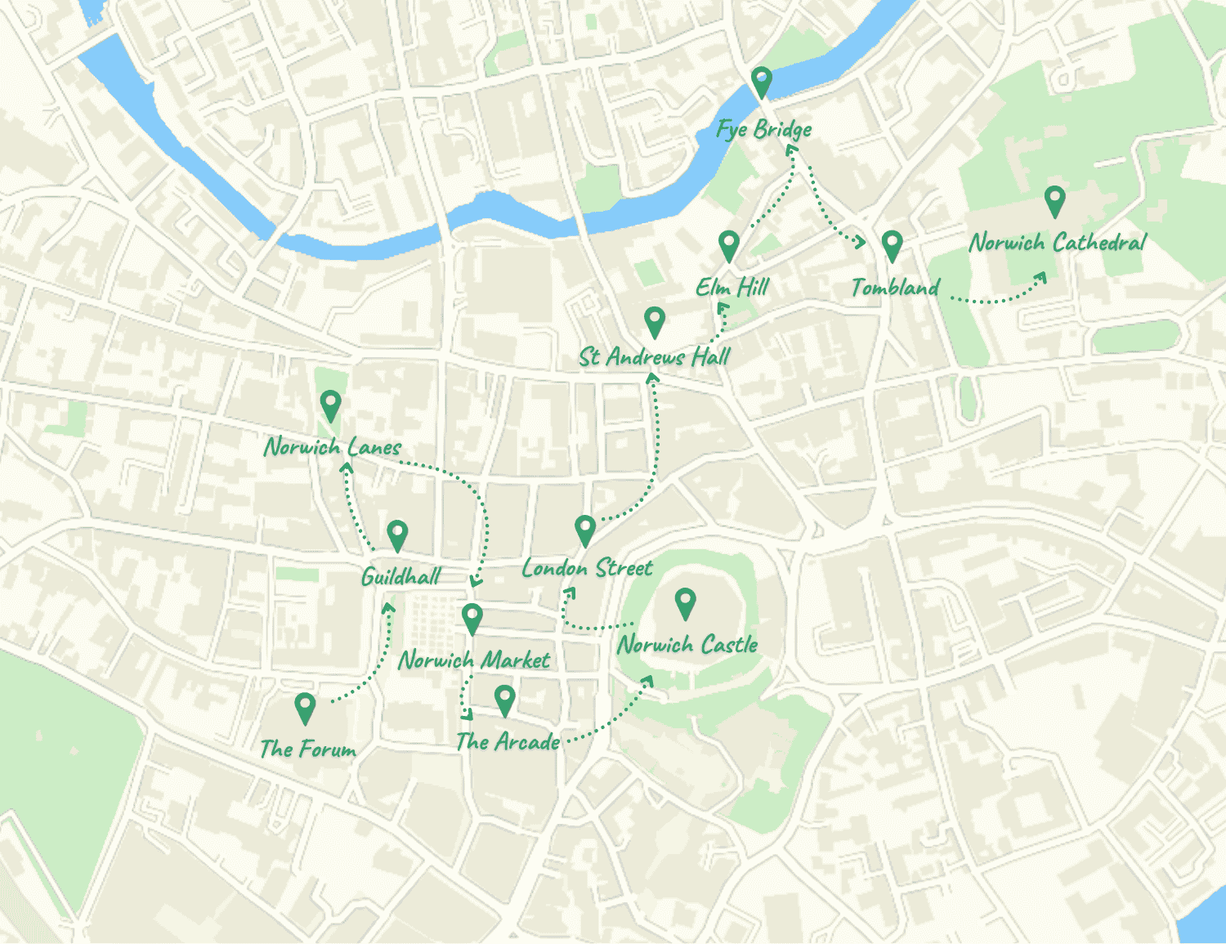
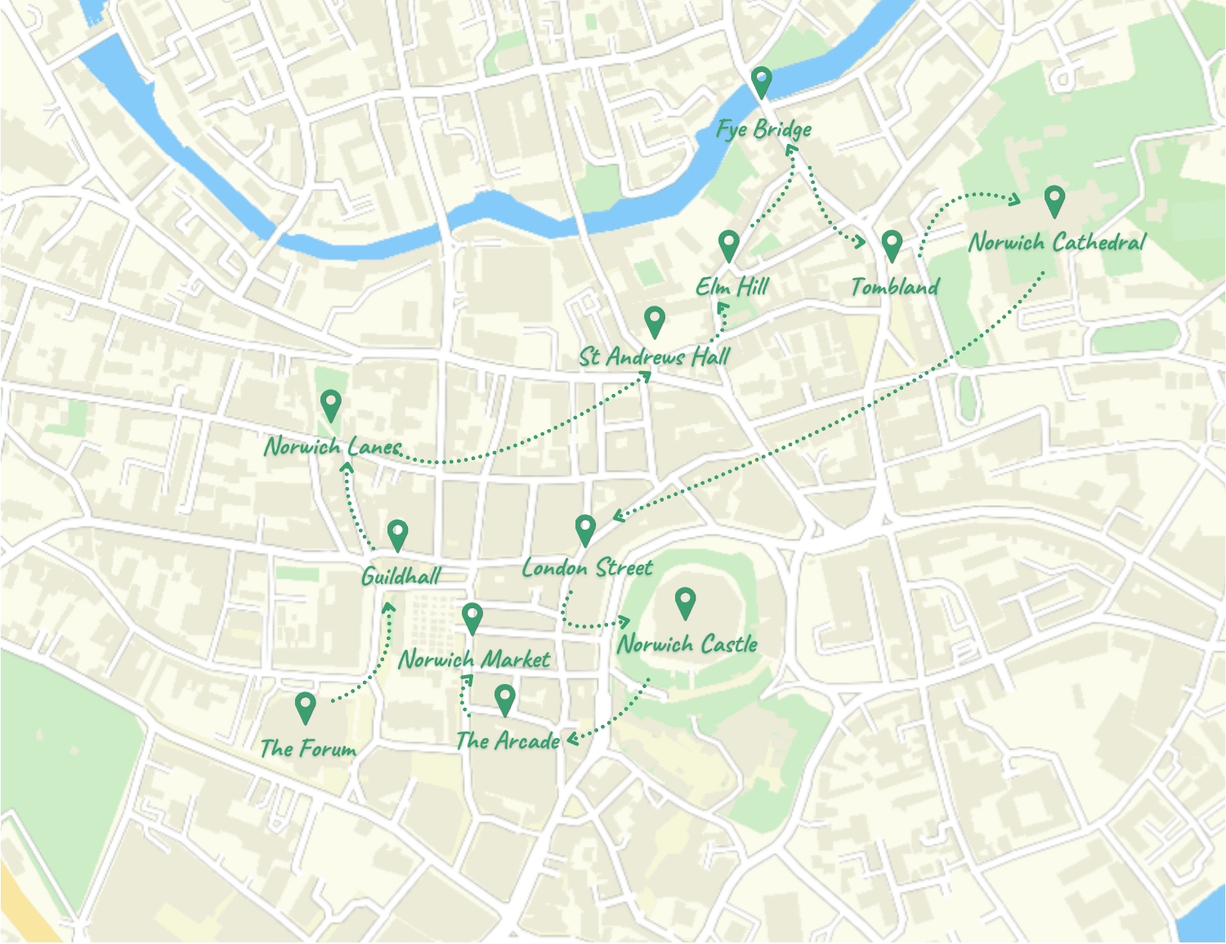
New route: 2 hours, finishing at Norwich Market + new route map
Tours now run ~2 hours and end at Norwich Market, back in the heart of the
city (site was lagging reality — recent reviews already describe the
2-hour market-finish route).

- New route map: rasterized from Tom's Canva SVG (2.7MB) to a 376KB
  1500x1155 PNG, drop-in replacement for public/images/route-map.png;
  alts updated to "starting at The Forum and finishing at Norwich Market".
- Stop order resequenced everywhere (lib/tourStops.ts + /tour stories and
  photos re-keyed): Forum, Guildhall, Lanes, St Andrews, Elm Hill,
  Fye Bridge, Tombland, Cathedral, London Street, Castle, Arcade, Market.
  Market story now closes with the lunch angle.
- Duration swept: all ~25 "1h 45m" mentions -> 2 hours (metadata, JSON-LD,
  hero trust row, /tour title + H1 + FAQs, /book, homepage FAQ, HowItWorks,
  BookingSectionV2, StoriesTeaser, WhatIsFreeTour, about/contact/terms/
  things-to-do/where-to-stay, llms.txt).
- New crawlable facts: ~2.5 km, mostly flat, no big hikes; finishes at
  Norwich Market, well placed for lunch (FAQ, /tour, llms.txt Route line).

diff --git a/app/tour/page.tsx b/app/tour/page.tsx
@@ -7,7 +7,7 @@ import { StoriesTeaser } from "@/components/StoriesTeaser";
 import { ScrollTrail } from "@/components/ScrollTrail";
 
 export const metadata: Metadata = {
-  title: "Norwich Walking Tour | 12 Stops, 1h 45m",
+  title: "Norwich Walking Tour | 12 Stops, 2 Hours",
   description:
     "12 stops through the real Norwich. Elm Hill, Norwich Cathedral, the Lanes, the Market and more. Daily from The Forum. Book your spot free.",
   alternates: {
@@ -34,7 +34,7 @@ const faqItems = [
   },
   {
     q: "Is it suitable for kids?",
-    a: "School-age and up tend to enjoy it. Under 5s might find 1h 45m a stretch.",
+    a: "School-age and up tend to enjoy it. Under 5s might find 2 hours a stretch.",
   },
   {
     q: "Is the route accessible?",
@@ -46,7 +46,7 @@ const faqItems = [
   },
   {
     q: "How long is the tour?",
-    a: "1 hour 45 minutes, give or take.",
+    a: "About 2 hours, give or take. Roughly 2.5 km of easy, mostly flat walking. No big hikes.",
   },
 ];
 
@@ -63,33 +63,36 @@ const faqSchema = {
   })),
 };
 
-// Stop stories — one-line hook + story + fun fact
+// Stop stories — one-line hook + story + fun fact.
+// Keys follow the NEW 2-hour route order (2026-07-04): Forum, Guildhall,
+// Lanes, St Andrews, Elm Hill, Fye Bridge, Tombland, Cathedral,
+// London Street, Castle, Arcade, finishing at Norwich Market.
 const stopStories: Record<number, string> = {
   1: "We start where Norwich nearly didn't. The Forum was built in 2001 on the site of the old library, which burned down in 1994 and took half a million books with it. Look up at the curve of the building. It's deliberately shaped to mirror the cathedral spire across the city.",
   2: "England's largest surviving medieval guildhall, built when Norwich was the country's second city. The witch trials happened here. So did most of the city's important business for nearly 500 years. The flint chequerboard pattern on the front wall is showing off, and we'll talk about why.",
   3: "A maze of independent shops, hidden courtyards, and Tudor buildings the developers somehow never got hold of. This was the medieval shopping district. Walk slowly. Half the fun is what you spot in the side alleys you'd never find on your own.",
-  4: "Trading on the same patch of ground since the 11th century. One of the largest open-air markets in England and the most colourful from above. The stalls have been here longer than most countries have existed in their current form.",
-  5: "Norwich's small slice of Victorian shopping theatre. Built in 1899, decorated with art nouveau tiles, and one of the few places in the city that feels frozen in time. Walk through it slowly. The tiles tell their own story.",
-  6: "The first pedestrianised shopping street in the UK, going car-free in 1967. A small thing, but Norwich got there before everyone else. We'll talk about why this matters more than it sounds.",
-  7: "A Norman keep built to remind the locals who was in charge. It worked. For most of its life it was a prison, and the stories from that period are not for the squeamish. Recently reopened after a major restoration, and now arguably the most impressive medieval royal palace in England you've never heard of.",
-  8: "Originally a Dominican friary, then a town hall, then a synagogue, then a fire station, now a concert venue. One building, six lives. The roof beams are the original 14th-century timber.",
-  9: "The most photographed street in Norwich and the closest you'll come to walking through a Tudor film set. Nearly demolished in the 1920s for being \"slum housing.\" Saved by a single vote on the city council. We'll show you exactly where the vote was cast.",
-  10: "Doesn't mean what you think. The name is Saxon, predates Christianity, and has nothing to do with graves. The square in front of the cathedral was the original Norwich market before the current one was built. The story behind the name catches everyone out.",
-  11: "One of the oldest river crossings in the city, used as a ducking stool site in the medieval period. People accused of being witches, scolds, or generally awkward got dunked here. Quiet now. Not always.",
-  12: "Nearly a thousand years old, built from limestone shipped across from Caen in Normandy because the locals didn't think English stone was good enough. The cloisters are the largest in England. The spire is the second tallest. And the close around it is the only one in the country you can still walk through freely after dark.",
+  4: "Originally a Dominican friary, then a town hall, then a synagogue, then a fire station, now a concert venue. One building, six lives. The roof beams are the original 14th-century timber.",
+  5: "The most photographed street in Norwich and the closest you'll come to walking through a Tudor film set. Nearly demolished in the 1920s for being \"slum housing.\" Saved by a single vote on the city council. We'll show you exactly where the vote was cast.",
+  6: "One of the oldest river crossings in the city, used as a ducking stool site in the medieval period. People accused of being witches, scolds, or generally awkward got dunked here. Quiet now. Not always.",
+  7: "Doesn't mean what you think. The name is Saxon, predates Christianity, and has nothing to do with graves. The square in front of the cathedral was the original Norwich market before the current one was built. The story behind the name catches everyone out.",
+  8: "Nearly a thousand years old, built from limestone shipped across from Caen in Normandy because the locals didn't think English stone was good enough. The cloisters are the largest in England. The spire is the second tallest. And the close around it is the only one in the country you can still walk through freely after dark.",
+  9: "The first pedestrianised shopping street in the UK, going car-free in 1967. A small thing, but Norwich got there before everyone else. We'll talk about why this matters more than it sounds.",
+  10: "A Norman keep built to remind the locals who was in charge. It worked. For most of its life it was a prison, and the stories from that period are not for the squeamish. Recently reopened after a major restoration, and now arguably the most impressive medieval royal palace in England you've never heard of.",
+  11: "Norwich's small slice of Victorian shopping theatre. Built in 1899, decorated with art nouveau tiles, and one of the few places in the city that feels frozen in time. Walk through it slowly. The tiles tell their own story.",
+  12: "Trading on the same patch of ground since the 11th century. One of the largest open-air markets in England and the most colourful from above. And this is where we finish: right in the heart of the city, surrounded by some of the best cheap lunch in Norwich. Ask your guide where they'd eat.",
 };
 
-// Stop photos
+// Stop photos — keyed to the NEW order.
 const stopImages: Record<number, { src: string; alt: string }> = {
   1:  { src: "/images/tour/group-the-forum.jpg",     alt: "Walking tour group meeting at The Forum, Norwich's modern glass meeting hub on Millennium Plain." },
   2:  { src: "/images/tour/guide-guildhall.jpg",     alt: "Free Walking Tour Norwich guide explaining the chequerboard flintwork facade of Norwich Guildhall." },
   3:  { src: "/images/norwich-lane-stock.png",       alt: "The Norwich Lanes. Independent shops, cafés and hidden courtyards in Norwich city centre." },
-  4:  { src: "/images/norwich-market-sun-stock.png", alt: "Norwich Market. One of England's oldest and largest outdoor markets." },
-  5:  { src: "/images/the-arcade-stock.png",         alt: "The Arcade Norwich. Victorian shopping arcade with ornate ironwork." },
-  7:  { src: "/images/norwich-castle.png",           alt: "Norwich Castle, Norman fortress overlooking the city" },
-  9:  { src: "/images/tour/elm-hill-tour.jpg",        alt: "Elm Hill, Norwich's famous cobbled medieval street, on the Norwich Free Walking Tour" },
-  11: { src: "/images/vamous-view-norwich.png",      alt: "View of Norwich from Fye Bridge over the River Wensum" },
-  12: { src: "/images/norwich-cathedral-stock.png",  alt: "Norwich Cathedral. 900-year-old Norman cathedral with England's second-tallest spire." },
+  5:  { src: "/images/tour/elm-hill-tour.jpg",        alt: "Elm Hill, Norwich's famous cobbled medieval street, on the Norwich Free Walking Tour" },
+  6:  { src: "/images/vamous-view-norwich.png",      alt: "View of Norwich from Fye Bridge over the River Wensum" },
+  8:  { src: "/images/norwich-cathedral-stock.png",  alt: "Norwich Cathedral. 900-year-old Norman cathedral with England's second-tallest spire." },
+  10: { src: "/images/norwich-castle.png",           alt: "Norwich Castle, Norman fortress overlooking the city" },
+  11: { src: "/images/the-arcade-stock.png",         alt: "The Arcade Norwich. Victorian shopping arcade with ornate ironwork." },
+  12: { src: "/images/norwich-market-sun-stock.png", alt: "Norwich Market. One of England's oldest and largest outdoor markets, where the tour finishes." },
 };
 
 export default function TourPage() {
@@ -132,7 +135,7 @@ export default function TourPage() {
             The tour
           </p>
           <h1 className="font-caveat text-5xl md:text-6xl font-bold text-white mb-5 leading-tight">
-            The Norwich walking tour. 12 stops. 1h 45m.
+            The Norwich walking tour. 12 stops. 2 hours.
           </h1>
           <p className="font-lora text-lg text-white/85 leading-relaxed mb-8">
             The real Norwich, on foot, with someone who lives here.
@@ -162,7 +165,7 @@ export default function TourPage() {
                 What you&apos;ll see
               </h2>
               <p className="font-lora text-base text-muted-foreground leading-relaxed">
-                Twelve stops covering nine hundred years of Norwich history. Norwich Cathedral, Norwich Castle, Elm Hill&apos;s Tudor cobbles, Norwich Market (open since the 11th century), the Norwich Lanes, the Guildhall, St Andrews Hall, Tombland. All within a fifteen-minute walk of each other.
+                Twelve stops covering nine hundred years of Norwich history. Norwich Cathedral, Norwich Castle, Elm Hill&apos;s Tudor cobbles, the Norwich Lanes, the Guildhall, St Andrews Hall, Tombland, finishing at Norwich Market (open since the 11th century) right in the heart of the city. About 2.5 km all told, mostly flat, no big hikes.
               </p>
             </div>
             <div>
@@ -170,7 +173,7 @@ export default function TourPage() {
                 How it works
               </h2>
               <p className="font-lora text-base text-muted-foreground leading-relaxed">
-                Book free in thirty seconds. No card needed. Meet at The Forum at your booked time, typically 10:30am. Walk for one hour forty-five minutes, relaxed pace. At the end, tip what you thought it was worth. Card, Apple Pay, Google Pay or cash. Most guests tip £10 to £20.
+                Book free in thirty seconds. No card needed. Meet at The Forum at your booked time, typically 10:30am. Walk for two hours at a relaxed pace, about 2.5 km all told, finishing at Norwich Market right in the heart of the city. At the end, tip what you thought it was worth. Card, Apple Pay, Google Pay or cash. Most guests tip £10 to £20.
               </p>
             </div>
             <div>
@@ -196,7 +199,7 @@ export default function TourPage() {
           <div className="bg-white rounded-2xl border border-brand-accent/15 shadow-md overflow-hidden max-w-xl mx-auto">
             <Image
               src="/images/route-map.png"
-              alt="Hand-drawn route map of the Norwich Free Walking Tours showing all 12 stops from The Forum to Norwich Cathedral."
+              alt="Route map of the Norwich Free Walking Tours showing all 12 stops, starting at The Forum and finishing at Norwich Market."
               width={1500}
               height={1155}
               className="w-full h-auto"

diff --git a/lib/tourStops.ts b/lib/tourStops.ts
@@ -7,6 +7,10 @@ export interface TourStop {
   teaser: string;
 }
 
+// Order updated 2026-07-04 to match the new 2-hour route (per Tom's map):
+// Forum -> Guildhall -> Lanes -> St Andrews -> Elm Hill -> Fye Bridge ->
+// Tombland -> Cathedral -> London Street -> Castle -> Arcade -> finishes
+// at Norwich Market, back in the heart of the city.
 export const tourStops: TourStop[] = [
   {
     id: 1,
@@ -28,57 +32,57 @@ export const tourStops: TourStop[] = [
   },
   {
     id: 4,
-    name: "Norwich Market",
-    coords: [52.6283, 1.2949],
-    teaser: "One of Britain's oldest and largest open-air markets. 900 years of trading in the same spot.",
-  },
-  {
-    id: 5,
-    name: "The Arcade",
-    coords: [52.6279, 1.2957],
-    teaser: "Elegant Victorian and Edwardian shopping. Escape the high street for something genuinely special.",
-  },
-  {
-    id: 6,
-    name: "London Street",
-    coords: [52.6282, 1.2968],
-    teaser: "The first pedestrianised street in the UK. Almost nobody knows it. Hidden history in plain sight.",
-  },
-  {
-    id: 7,
-    name: "Norwich Castle",
-    coords: [52.6285, 1.2982],
-    teaser: "A massive Norman palace overlooking the city. The best place to visualise Norwich's medieval power and scale.",
-  },
-  {
-    id: 8,
     name: "St Andrews Hall",
     coords: [52.6299, 1.2990],
     teaser: "England's most complete medieval friary complex. The former Dominican 'Black Friars' now host festivals and theatre.",
   },
   {
-    id: 9,
+    id: 5,
     name: "Elm Hill",
     coords: [52.6303, 1.3003],
     teaser: "The city's most famous cobbled street, often used as a film set. Stunning medieval buildings and shops.",
   },
   {
-    id: 10,
-    name: "Tombland",
-    coords: [52.6311, 1.2995],
-    teaser: "The Anglo-Saxon heart of the city. Dark history, plague legends, and two gates into the Cathedral.",
-  },
-  {
-    id: 11,
+    id: 6,
     name: "Fye Bridge",
     coords: [52.6316, 1.2998],
     teaser: "The city's oldest river crossing. Iconic postcard views and stories of medieval punishments.",
   },
   {
-    id: 12,
+    id: 7,
+    name: "Tombland",
+    coords: [52.6311, 1.2995],
+    teaser: "The Anglo-Saxon heart of the city. Dark history, plague legends, and two gates into the Cathedral.",
+  },
+  {
+    id: 8,
     name: "Norwich Cathedral",
     coords: [52.6320, 1.3007],
     teaser: "Marvel at this 900-year-old icon, explore the grounds and take a selfie with Paddington Bear.",
+  },
+  {
+    id: 9,
+    name: "London Street",
+    coords: [52.6282, 1.2968],
+    teaser: "The first pedestrianised street in the UK. Almost nobody knows it. Hidden history in plain sight.",
+  },
+  {
+    id: 10,
+    name: "Norwich Castle",
+    coords: [52.6285, 1.2982],
+    teaser: "A massive Norman palace overlooking the city. The best place to visualise Norwich's medieval power and scale.",
+  },
+  {
+    id: 11,
+    name: "The Arcade",
+    coords: [52.6279, 1.2957],
+    teaser: "Elegant Victorian and Edwardian shopping. Escape the high street for something genuinely special.",
+  },
+  {
+    id: 12,
+    name: "Norwich Market",
+    coords: [52.6283, 1.2949],
+    teaser: "One of Britain's oldest open-air markets, and where the tour ends. Right in the heart of the city, perfect timing for lunch.",
   },
 ];
 

diff --git a/app/things-to-do/free/page.tsx b/app/things-to-do/free/page.tsx
@@ -78,10 +78,10 @@ const items: FreeThingItem[] = [
     body: (
       <>
         <p>
-          Yes, this is our list, and yes, our tour is on it. We&apos;d still put it here even if it weren&apos;t. It&apos;s the only daily free walking tour in Norwich. 1 hour 45 minutes, a local guide, and the stories that didn&apos;t make it onto any blue plaque. Free to book, tip what you think it was worth at the end. Most guests pay £10 to £20 per person. If it wasn&apos;t worth it, you don&apos;t pay.
+          Yes, this is our list, and yes, our tour is on it. We&apos;d still put it here even if it weren&apos;t. It&apos;s the only daily free walking tour in Norwich. 2 hours, a local guide, and the stories that didn&apos;t make it onto any blue plaque. Free to book, tip what you think it was worth at the end. Most guests pay £10 to £20 per person. If it wasn&apos;t worth it, you don&apos;t pay.
         </p>
         <p>
-          We start at The Forum and finish near the Cathedral, taking in Elm Hill, the Lanes, the Market and Norwich Castle along the way. Group capped at 15 so you can actually hear the guide.
+          We start at The Forum and finish at Norwich Market, right in the heart of the city and perfectly placed for lunch, taking in Elm Hill, the Lanes, the Cathedral and Norwich Castle along the way. Group capped at 15 so you can actually hear the guide.
         </p>
         <p>
           <TrackedBookLink location="things_to_do_intro" className="text-brand-accent hover:underline font-semibold">
@@ -305,7 +305,7 @@ export default function FreeThingsToDoNorwichPage() {
               Want a local to show you the rest?
             </h2>
             <p className="font-lora text-base text-muted-foreground leading-relaxed mb-6 max-w-md mx-auto">
-              The free walking tour covers the city in 1h 45m with stories you won&apos;t find on a sign. Free to book, tip what it was worth at the end.
+              The free walking tour covers the city in 2 hours with stories you won&apos;t find on a sign. Free to book, tip what it was worth at the end.
             </p>
             <TrackedBookLink
               location="things_to_do_bottom"

diff --git a/app/what-is-a-free-tour/page.tsx b/app/what-is-a-free-tour/page.tsx
@@ -12,7 +12,7 @@ const CANONICAL = "https://www.norwichfreewalkingtours.co.uk/what-is-a-free-tour
 export const metadata: Metadata = {
   title: "What is a free walking tour? | Norwich Free Walking Tours",
   description:
-    "Free walking tours explained: you join for free, walk for 1h 45m with a local guide, and tip £10-£20 at the end if you enjoyed it. No fixed price, no pressure.",
+    "Free walking tours explained: you join for free, walk for 2 hours with a local guide, and tip £10-£20 at the end if you enjoyed it. No fixed price, no pressure.",
   alternates: { canonical: CANONICAL },
   openGraph: {
     title: "What is a free walking tour?",
@@ -94,7 +94,7 @@ const faqPageSchema = {
       name: "What happens on a free walking tour?",
       acceptedAnswer: {
         "@type": "Answer",
-        text: "On the Norwich Free Walking Tour: you book a spot online (free, no card needed), meet your guide outside The Forum at the booked time, walk for 1 hour 45 minutes at a relaxed pace through 12 stops finishing near Norwich Cathedral, and tip what you thought it was worth at the end. Card, Apple Pay, Google Pay or cash all work.",
+        text: "On the Norwich Free Walking Tour: you book a spot online (free, no card needed), meet your guide outside The Forum at the booked time, walk for 2 hours at a relaxed pace through 12 stops finishing at Norwich Market in the heart of the city, and tip what you thought it was worth at the end. Card, Apple Pay, Google Pay or cash all work.",
       },
     },
     {

diff --git a/app/layout.tsx b/app/layout.tsx
@@ -37,7 +37,7 @@ const lora = Lora({
 export const metadata: Metadata = {
   title: "Norwich Free Walking Tours | Daily, Local-Led, Free to Book",
   description:
-    "Daily 1h 45m walking tour of Norwich. Free to book, tip what it was worth. Meets at The Forum, rain or shine. Local guides. Max 15 per group.",
+    "Daily 2-hour walking tour of Norwich. Free to book, tip what it was worth. Meets at The Forum, rain or shine. Local guides. Max 15 per group.",
   keywords: [
     "free walking tour Norwich",
     "Norwich walking tours",
@@ -110,7 +110,7 @@ const jsonLd = [
     "@type": "TouristAttraction",
     name: "Norwich Free Walking Tours",
     description:
-      "A daily pay what you want walking tour revealing the real Norwich. 1h 45m. English language. Meets at The Forum. Rain or shine.",
+      "A daily pay what you want walking tour revealing the real Norwich. 2 hours, about 2.5 km. English language. Starts at The Forum, finishes at Norwich Market. Rain or shine.",
     url: "https://www.norwichfreewalkingtours.co.uk",
     audienceType: ["Culture Seekers", "History Buffs", "Independent Travellers"],
     inLanguage: "en",

diff --git a/app/terms/page.tsx b/app/terms/page.tsx
@@ -36,7 +36,7 @@ export default function TermsPage() {
           <Section title="The tour">
             <p>Norwich Free Walking Tours is operated by Thomas Thornhill (sole trader), Norwich, Norfolk, UK. Contact: <a href="mailto:hello@norwichfreewalkingtours.co.uk" className="text-brand-accent hover:underline">hello@norwichfreewalkingtours.co.uk</a>.</p>
             <p>Norwich Free Walking Tours is a pay what you want walking tour. Joining the tour is free. At the end, participants are invited to tip the guide based on their experience. There is no minimum or maximum tip amount.</p>
-            <p>The tour runs daily, starting outside The Forum on Millennium Plain, Norwich city centre NR2 1TF. The tour lasts approximately 1 hour 45 minutes.</p>
+            <p>The tour runs daily, starting outside The Forum on Millennium Plain, Norwich city centre NR2 1TF. The tour lasts approximately 2 hours and finishes at Norwich Market.</p>
           </Section>
 
           <Section title="Booking">

diff --git a/app/book/page.tsx b/app/book/page.tsx
@@ -94,7 +94,7 @@ export default function BookPage() {
                 className="block text-[clamp(28px,4.4vw,48px)] font-semibold leading-[1.05] tracking-[-0.02em] text-white"
                 style={{ fontFamily: "var(--font-lora), Georgia, serif" }}
               >
-                1h 45m of Norwich,
+                2 hours of Norwich,
               </span>
               <span
                 className="block text-[clamp(40px,5.6vw,68px)] font-semibold leading-[0.95]"
@@ -132,7 +132,7 @@ export default function BookPage() {
                 </>
               )}
               <span className="inline-flex items-center gap-1">
-                <Clock className="h-4 w-4" aria-hidden="true" /> 1h 45m
+                <Clock className="h-4 w-4" aria-hidden="true" /> 2 hours
               </span>
               <span aria-hidden="true" className="text-white/40">&bull;</span>
               <span className="inline-flex items-center gap-1">

diff --git a/components/FAQ.tsx b/components/FAQ.tsx
@@ -12,7 +12,7 @@ const faqs = [
   },
   {
     q: "What happens on the day?",
-    a: "Three steps. Book your spot online (free, no card needed). Meet your guide outside The Forum at your booked time — they'll be in a green t-shirt with a suspicious amount of local knowledge. Walk for 1 hour 45 minutes, relaxed pace, finishing near the Cathedral. At the end you tip what you thought it was worth. Card, Apple Pay, Google Pay or cash.",
+    a: "Three steps. Book your spot online (free, no card needed). Meet your guide outside The Forum at your booked time — they'll be in a green t-shirt with a suspicious amount of local knowledge. Walk for 2 hours at a relaxed pace, about 2.5 km with no big hikes, finishing at Norwich Market right in the heart of the city, handy for lunch. At the end you tip what you thought it was worth. Card, Apple Pay, Google Pay or cash.",
   },
   {
     q: "What if it rains?",

diff --git a/app/contact/page.tsx b/app/contact/page.tsx
@@ -167,7 +167,7 @@ export default function ContactPage() {
             Free to book. Pay what it was worth.
           </h2>
           <p className="font-lora text-base text-muted-foreground leading-relaxed mb-3">
-            We&apos;re the only daily free walking tour in Norwich. Every day from The Forum, typically 10:30am. 1 hour 45 minutes, mostly flat, group capped at 15. Local guides who actually live here.
+            We&apos;re the only daily free walking tour in Norwich. Every day from The Forum, typically 10:30am. 2 hours, about 2.5 km, mostly flat, group capped at 15. Local guides who actually live here.
           </p>
           <p className="font-lora text-base text-muted-foreground leading-relaxed">
             At the end you tip what you think the tour was worth. Most guests tip £10 to £20 per person. If it wasn&apos;t worth it, you don&apos;t pay. That&apos;s the deal.

diff --git a/components/WhatIsFreeTour.tsx b/components/WhatIsFreeTour.tsx
@@ -26,7 +26,7 @@ export function WhatIsFreeTour() {
                 Free tours are a growing accessible way to get a great local introduction to a city.
               </p>
               <p className="text-lg text-muted-foreground leading-relaxed">
-                You join for free, spend 1 hour 45 minutes with a local guide who will show you the best spots and tell their favourite stories, and at the end you tip what you thought it was worth.
+                You join for free, spend 2 hours with a local guide who will show you the best spots and tell their favourite stories, and at the end you tip what you thought it was worth.
               </p>
               <p className="text-base text-muted-foreground leading-relaxed">No fixed price.</p>
               <p className="text-base text-muted-foreground leading-relaxed">No pressure.</p>

diff --git a/app/_components/BookingSectionV2.tsx b/app/_components/BookingSectionV2.tsx
@@ -74,7 +74,7 @@ export function BookingSectionV2() {
               className="text-base text-muted-foreground leading-relaxed mb-4"
               style={{ fontFamily: "var(--font-lora), Georgia, serif" }}
             >
-              <strong className="text-brand-text font-semibold">Never done a free walking tour?</strong> Book free, walk 1h 45m with a local guide, tip what you thought it was worth at the end. No catch.{" "}
+              <strong className="text-brand-text font-semibold">Never done a free walking tour?</strong> Book free, walk 2 hours with a local guide, tip what you thought it was worth at the end. No catch.{" "}
               <a
                 href="/what-is-a-free-tour"
                 className="text-brand-accent-text font-semibold hover:underline underline-offset-2"

diff --git a/app/explore/where-to-stay-norwich/page.tsx b/app/explore/where-to-stay-norwich/page.tsx
@@ -246,7 +246,7 @@ export default function WhereToStayPage() {
               Get your bearings on day one
             </h2>
             <p className="font-lora text-base text-muted-foreground leading-relaxed mb-6 max-w-md mx-auto">
-              The free walking tour leaves The Forum daily. 1 hour 45 minutes, mostly flat, one local guide and a group of 15 max. It&apos;s the fastest way to learn the city you&apos;re staying in.
+              The free walking tour leaves The Forum daily. 2 hours, mostly flat, one local guide and a group of 15 max, finishing at Norwich Market in time for lunch. It&apos;s the fastest way to learn the city you&apos;re staying in.
             </p>
             <TrackedBookLink
               location="where_to_stay"
